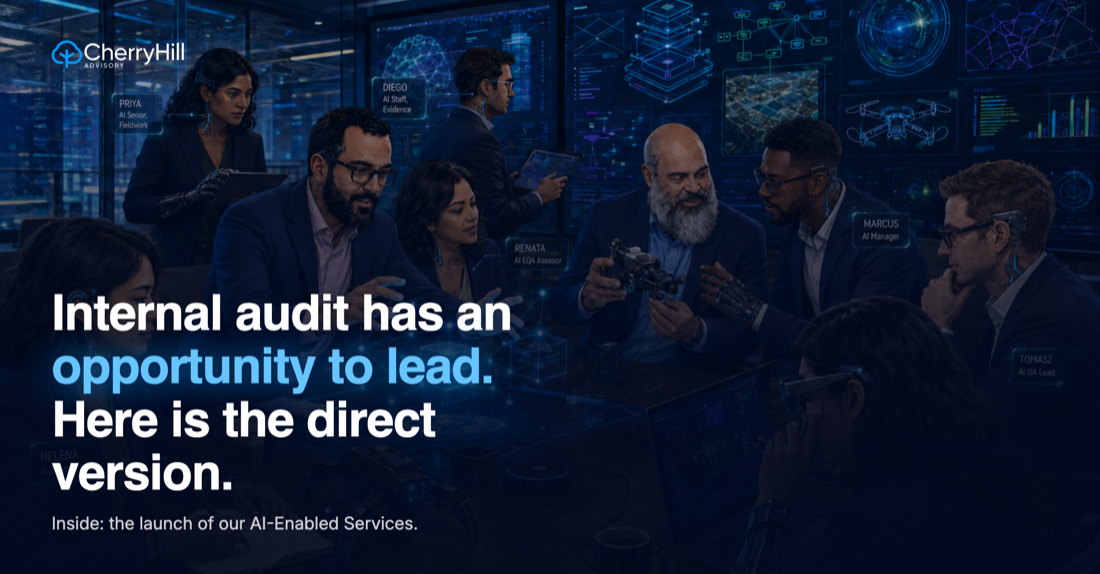
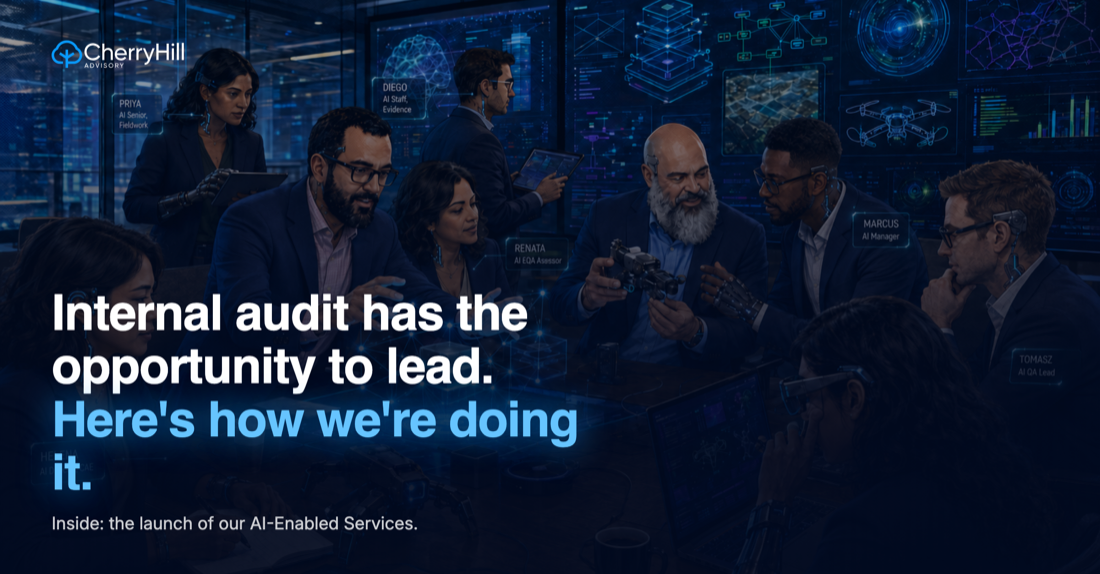
Cherry Hill newsletter options: reword A, drop D

Changed region(s): [[0.0309, 0.5035, 0.5564, 0.8589]]

diff --git a/cherry-hill-advisory/ai-launch/index.html b/cherry-hill-advisory/ai-launch/index.html
@@ -859,7 +859,7 @@ A practitioner makes every call about what changes. Tomasz just makes sure the c
 
 cherryhilladvisory.com/ai-enabled-internal-audit-services
 
-#InternalAudit #QualityAssurance #CherryHillAdvisory</div></div></div></div></section><section id="nl"><div class="wrap"><div class="dayhead"><span class="dnum hero">THU JUL 23</span><h2>The Risk Register</h2></div><p class="sub">A launch edition on July 23, then a service-of-the-week feature for the remaining seven weeks. The old recurring format was stale, so this replaces it: each edition leads with a position rather than an announcement, and closes on the one thing a reader can go do.</p><p class="sub" style="margin-top:6px"><b>Newsletter header options.</b> The current one answers a fear instead of making a claim. Four alternatives below, all rendered on the same board.</p><div style="display:flex;gap:12px;flex-wrap:wrap;margin-bottom:16px"><figure style="margin:0;width:210px"><img src="img/dc-newsletter.png" loading="lazy" style="width:100%;border-radius:10px;border:1px solid rgba(255,255,255,.18);display:block"><figcaption style="font-size:10.5px;opacity:.7;margin-top:5px">Current</figcaption></figure><figure style="margin:0;width:210px"><img src="img/nl-opt-a-lead.png" loading="lazy" style="width:100%;border-radius:10px;border:1px solid rgba(255,255,255,.18);display:block"><figcaption style="font-size:10.5px;opacity:.7;margin-top:5px">A · Opportunity to lead</figcaption></figure><figure style="margin:0;width:210px"><img src="img/nl-opt-b-sample.png" loading="lazy" style="width:100%;border-radius:10px;border:1px solid rgba(255,255,255,.18);display:block"><figcaption style="font-size:10.5px;opacity:.7;margin-top:5px">B · Sampling</figcaption></figure><figure style="margin:0;width:210px"><img src="img/nl-opt-c-19.png" loading="lazy" style="width:100%;border-radius:10px;border:1px solid rgba(255,255,255,.18);display:block"><figcaption style="font-size:10.5px;opacity:.7;margin-top:5px">C · The 19</figcaption></figure><figure style="margin:0;width:210px"><img src="img/nl-opt-d-signs.png" loading="lazy" style="width:100%;border-radius:10px;border:1px solid rgba(255,255,255,.18);display:block"><figcaption style="font-size:10.5px;opacity:.7;margin-top:5px">D · Who signs</figcaption></figure></div><div class="nlbox"><div class="nlsub">Subject: Internal audit has an opportunity to lead. Here is the direct version.</div>"At a time when AI is reshaping how organizations operate, internal audit has an opportunity to lead."
+#InternalAudit #QualityAssurance #CherryHillAdvisory</div></div></div></div></section><section id="nl"><div class="wrap"><div class="dayhead"><span class="dnum hero">THU JUL 23</span><h2>The Risk Register</h2></div><p class="sub">A launch edition on July 23, then a service-of-the-week feature for the remaining seven weeks. The old recurring format was stale, so this replaces it: each edition leads with a position rather than an announcement, and closes on the one thing a reader can go do.</p><p class="sub" style="margin-top:6px"><b>Newsletter header options.</b> The current one answers a fear instead of making a claim. Four alternatives below, all rendered on the same board.</p><div style="display:flex;gap:12px;flex-wrap:wrap;margin-bottom:16px"><figure style="margin:0;width:210px"><img src="img/dc-newsletter.png" loading="lazy" style="width:100%;border-radius:10px;border:1px solid rgba(255,255,255,.18);display:block"><figcaption style="font-size:10.5px;opacity:.7;margin-top:5px">Current</figcaption></figure><figure style="margin:0;width:210px"><img src="img/nl-opt-a-lead.png" loading="lazy" style="width:100%;border-radius:10px;border:1px solid rgba(255,255,255,.18);display:block"><figcaption style="font-size:10.5px;opacity:.7;margin-top:5px">A · Opportunity to lead</figcaption></figure><figure style="margin:0;width:210px"><img src="img/nl-opt-b-sample.png" loading="lazy" style="width:100%;border-radius:10px;border:1px solid rgba(255,255,255,.18);display:block"><figcaption style="font-size:10.5px;opacity:.7;margin-top:5px">B · Sampling</figcaption></figure><figure style="margin:0;width:210px"><img src="img/nl-opt-c-19.png" loading="lazy" style="width:100%;border-radius:10px;border:1px solid rgba(255,255,255,.18);display:block"><figcaption style="font-size:10.5px;opacity:.7;margin-top:5px">C · The 19</figcaption></figure></div><div class="nlbox"><div class="nlsub">Subject: Internal audit has an opportunity to lead. Here is the direct version.</div>"At a time when AI is reshaping how organizations operate, internal audit has an opportunity to lead."
 
 That is what Mike said in today's announcement, and it is the polite version. Here is the direct one.
 
